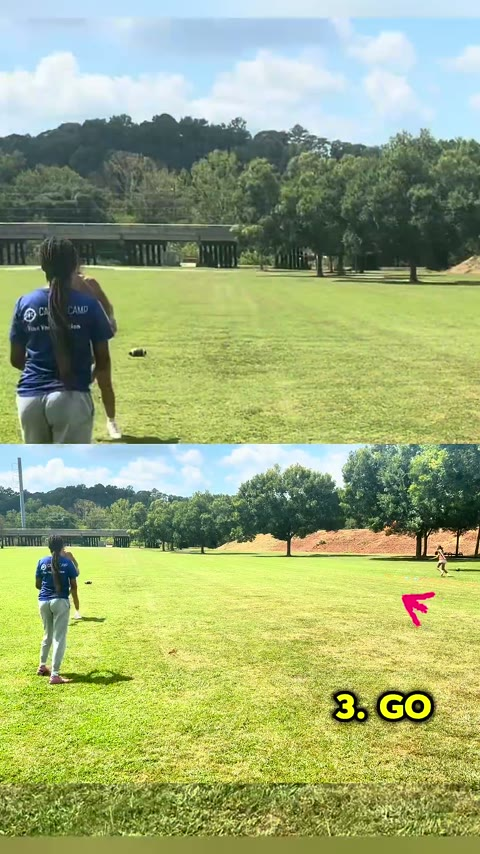
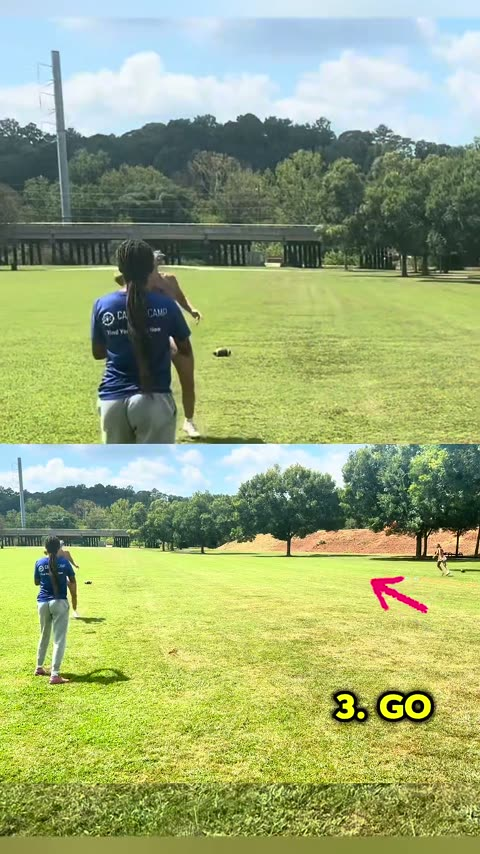
Fiche QB : images reprises depuis le pack d'analyse (planches + vérification image par image)
- slant 1,20 / 2,20 / 2,90 — départ avec libellé, ballon qui part, réception sautée
- out 4,40 / 5,30 / 6,00 — face à face, bras armé, ballon en vol vers la ligne
- go 7,90 / 8,60 / 9,80 — alignés, bras armé, ballon nettement en l'air
- popups recalés sur les libellés : slant 1,0 s, out 4,0 s, go 7,5 s (bouton ▶ 0:07)
- deux affirmations retirées faute de preuve à l'image (ballon dans les mains, réception près de la ligne)
- vérifié : le 2e tracé est bien libellé « 2. OUT » (pas CUT), aucun rusher, QB à deux ballons à 4,80 s

diff --git a/seance-mardi.html b/seance-mardi.html
@@ -2002,24 +2002,24 @@
               </header>
               <div class="frames three">
                   <figure class="frame">
-                    <img src="thumbs/2rOdrFzcNls_slant_1.jpg" alt="Slant : installation du drill, QB et receveur face à face">
+                    <img src="thumbs/2rOdrFzcNls_slant_1.jpg" alt="Slant : QB et receveur face à face, libellé 1. SLANT affiché">
                     <figcaption>
                       <b>Départ</b>
-                      <span>QB et receveur face à face, ballon en main.</span>
+                      <span>QB et receveur face à face, libellé « 1. SLANT » affiché.</span>
                     </figcaption>
                   </figure>
                   <figure class="frame">
-                    <img src="thumbs/2rOdrFzcNls_slant_2.jpg" alt="Slant : la passe part et le receveur casse vers l'intérieur">
+                    <img src="thumbs/2rOdrFzcNls_slant_2.jpg" alt="Slant : le ballon quitte la main du QB et part en l'air">
                     <figcaption>
-                      <b>Coupe intérieure</b>
-                      <span>Le receveur casse vers l'intérieur, la passe part.</span>
+                      <b>Ballon en vol</b>
+                      <span>Le ballon quitte la main : il est en l'air au-dessus du terrain.</span>
                     </figcaption>
                   </figure>
                   <figure class="frame">
-                    <img src="thumbs/2rOdrFzcNls_slant_3.jpg" alt="Slant : réception du ballon en avançant">
+                    <img src="thumbs/2rOdrFzcNls_slant_3.jpg" alt="Slant : le receveur saute pour attraper le ballon">
                     <figcaption>
                       <b>Réception</b>
-                      <span>Ballon attrapé en avançant, sans ralentir.</span>
+                      <span>Le receveur saute, bras levés, pour attraper en avançant.</span>
                     </figcaption>
                   </figure>
               </div>
@@ -2034,24 +2034,24 @@
               </header>
               <div class="frames three">
                   <figure class="frame">
-                    <img src="thumbs/2rOdrFzcNls_out_1.jpg" alt="Out : le QB arme et le receveur démarre">
+                    <img src="thumbs/2rOdrFzcNls_out_1.jpg" alt="Out : le QB tient le ballon à deux mains face au receveur">
                     <figcaption>
                       <b>Départ</b>
-                      <span>Le QB arme, le receveur démarre vers l'extérieur.</span>
+                      <span>QB et receveur face à face, libellé « 2. OUT » affiché.</span>
                     </figcaption>
                   </figure>
                   <figure class="frame">
-                    <img src="thumbs/2rOdrFzcNls_out_2.jpg" alt="Out : cassure vers l'extérieur, ballon en l'air">
+                    <img src="thumbs/2rOdrFzcNls_out_2.jpg" alt="Out : le QB arme au-dessus de l'épaule">
                     <figcaption>
-                      <b>Cassure</b>
-                      <span>Le ballon part vers la ligne, le receveur casse dehors.</span>
+                      <b>Bras armé</b>
+                      <span>Le QB arme au-dessus de l'épaule, ballon en main.</span>
                     </figcaption>
                   </figure>
                   <figure class="frame">
-                    <img src="thumbs/2rOdrFzcNls_out_3.jpg" alt="Out : réception près de la ligne">
+                    <img src="thumbs/2rOdrFzcNls_out_3.jpg" alt="Out : le ballon est en vol vers la ligne">
                     <figcaption>
-                      <b>Réception</b>
-                      <span>Ballon pris près de la ligne, pieds dedans.</span>
+                      <b>Ballon en vol</b>
+                      <span>Le ballon part vers la ligne, le receveur court dessous.</span>
                     </figcaption>
                   </figure>
               </div>
@@ -2062,28 +2062,28 @@
               <header>
                 <b>Go</b>
                 <span>trajectoire profonde</span>
-                <button class="clip mini" type="button" data-clip="go">▶ 0:08</button>
+                <button class="clip mini" type="button" data-clip="go">▶ 0:07</button>
               </header>
               <div class="frames three">
                   <figure class="frame">
-                    <img src="thumbs/2rOdrFzcNls_go_1.jpg" alt="Go : départ vertical du receveur, QB qui arme">
+                    <img src="thumbs/2rOdrFzcNls_go_1.jpg" alt="Go : QB et receveur alignés, libellé 3. GO affiché">
                     <figcaption>
                       <b>Départ vertical</b>
-                      <span>Le receveur part profond, le QB arme haut.</span>
+                      <span>QB et receveur alignés, libellé « 3. GO » et flèche affichés.</span>
                     </figcaption>
                   </figure>
                   <figure class="frame">
-                    <img src="thumbs/2rOdrFzcNls_go_2.jpg" alt="Go : le ballon part en trajectoire profonde">
+                    <img src="thumbs/2rOdrFzcNls_go_2.jpg" alt="Go : le QB arme haut, ballon à l'épaule">
                     <figcaption>
-                      <b>Lancer</b>
-                      <span>Le ballon quitte la main, trajectoire haute.</span>
+                      <b>Bras armé</b>
+                      <span>Le QB arme haut, ballon à l'épaule, prêt à lancer.</span>
                     </figcaption>
                   </figure>
                   <figure class="frame">
-                    <img src="thumbs/2rOdrFzcNls_go_3.jpg" alt="Go : ballon profond lancé devant le receveur">
+                    <img src="thumbs/2rOdrFzcNls_go_3.jpg" alt="Go : le ballon est en l'air en trajectoire profonde">
                     <figcaption>
                       <b>Ballon profond</b>
-                      <span>Le ballon est lancé devant : le receveur court dessous.</span>
+                      <span>Ballon en l'air, trajectoire profonde : le receveur court dessous.</span>
                     </figcaption>
                   </figure>
               </div>
@@ -2495,19 +2495,19 @@
     slant: {
       src: "videos/2rOdrFzcNls_@dhflagfootball.mp4",
       poster: "thumbs/2rOdrFzcNls_@dhflagfootball.jpg",
-      start: 0.4,
+      start: 1.0,
       caption: "Tracé 1 — slant : coupe intérieure, fenêtre tôt, ballon devant la poitrine."
     },
     out: {
       src: "videos/2rOdrFzcNls_@dhflagfootball.mp4",
       poster: "thumbs/2rOdrFzcNls_@dhflagfootball.jpg",
-      start: 3.9,
+      start: 4.0,
       caption: "Tracé 2 — out : cassure vers l'extérieur, ballon vers la ligne."
     },
     go: {
       src: "videos/2rOdrFzcNls_@dhflagfootball.mp4",
       poster: "thumbs/2rOdrFzcNls_@dhflagfootball.jpg",
-      start: 7.1,
+      start: 7.5,
       caption: "Tracé 3 — go : départ vertical, ballon lancé profond devant le receveur."
     },
     def: {

diff --git a/CHANGELOG.md b/CHANGELOG.md
@@ -153,3 +153,22 @@ c'est le **même drill que le 01**, avec une partie du groupe mains derrière la
   bas jusqu'à la feinte en situation dynamique. »
 - La fiche `01B` porte désormais « **Variante de l'exercice 01** » en tête d'objectif.
 - Légendes vidéo et textes alternatifs des 19 images alignés sur la nouvelle numérotation.
+
+## Fiche QB : images reprises depuis le pack d'analyse
+
+Même méthode que pour la vidéo DIP : planches 2 i/s, puis vérification des candidats en pleine
+résolution, image par image, avant de toucher à la fiche.
+
+- **Slant** : 1,20 (départ, libellé « 1. SLANT » affiché) · 2,20 (le ballon quitte la main) ·
+  2,90 (le receveur saute, bras levés).
+- **Out** : 4,40 (face à face) · 5,30 (bras armé au-dessus de l'épaule) · 6,00 (ballon en vol
+  vers la ligne). L'ancienne image de « cassure » (4,55) ne montrait ni cassure ni ballon.
+- **Go** : 7,90 (alignés, libellé « 3. GO ») · 8,60 (bras armé) · 9,80 (ballon nettement en l'air).
+- Repères des popups ajustés sur l'apparition des libellés : slant 1,0 s · out 4,0 s · go 7,5 s
+  (bouton passé de ▶ 0:08 à ▶ 0:07).
+- Deux affirmations retirées faute de preuve à l'image : « ballon attrapé en avançant » (le ballon
+  n'est pas lisible dans les mains) et « réception près de la ligne, pieds dedans ».
+- Vérifié au passage : le libellé du 2ᵉ tracé est bien **« 2. OUT »** du début à la fin (une lecture
+  de planche m'avait fait croire à « 2. CUT » : c'était un artefact de compression).
+- Aucun rusher dans la vidéo, et le QB tient bien deux ballons dans les mains à 4,80 s : le
+  « 3-ball drill » du titre est littéral.
